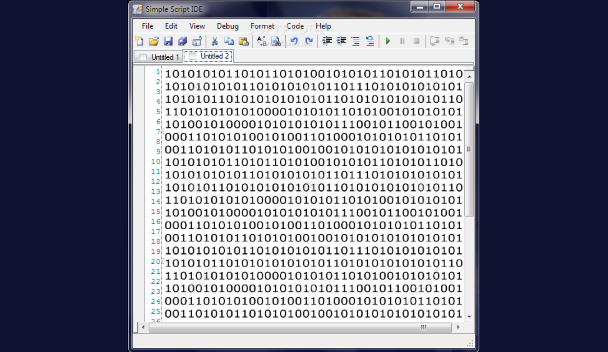
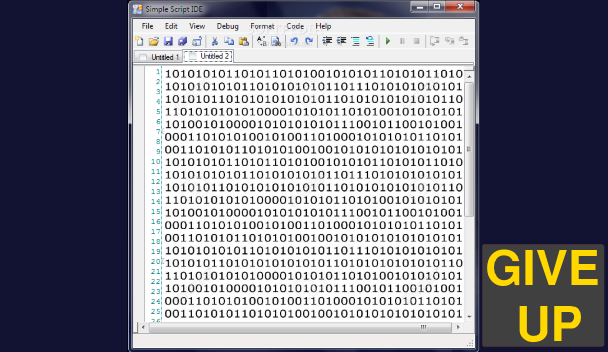
Updated graphics to add "buttons" and updated code to check for clicks within those buttons.

Changed region(s): [[0.7812, 0.6875, 1.0, 1.0]]

diff --git a/js/puzzle_fowler.js b/js/puzzle_fowler.js
@@ -130,20 +130,21 @@ var puzzle_fowler = function () {
         var oy = mousePos.y;
         switch (puzzleState) {
             case 1:
-                this.render();
+                //this.render();
                 puzzleState = 2;
                 break;
             case 2:
-                this.render();
+                //this.render();
                 puzzleState = 3;
                 break;
             case 3:
-                this.render();
+                //this.render();
                 //check where they clicked
-                if (mousePos.x > 300 && mousePos.x < 560 && mousePos.y > 30 && mousePos.y < 80) {
+
+                if (mousePos.x > 375 && mousePos.x < 600 && mousePos.y > 75 && mousePos.y < 165) {
                     // NOPE clicked: cancel puzzle (return to game)
                     puzzle_done(-1);
-                } else if (mousePos.x > 400 && mousePos.x < 530 && mousePos.y > 150 && mousePos.y < 215) {
+                } else if (mousePos.x > 167 && mousePos.x < 353 && mousePos.y > 27 && mousePos.y < 97) {
                     // OK clicked
                     //alden_ctx.drawImage(images.puzzle1,0,0);
                     puzzleState = 4;
@@ -157,6 +158,8 @@ var puzzle_fowler = function () {
                 //var pos = $("#canvas").position();
                 //var ox = e.pageX - pos.left;
                 //var oy = e.pageY - pos.top;
+
+                pzlmidctx.strokeRect(482, 245, 123, 102);
 
                 var magicx = Math.floor(puzzlemid.width / 6);
                 var magicy = Math.floor(puzzlemid.height / 6);
@@ -193,6 +196,9 @@ var puzzle_fowler = function () {
                         lightField[yField][xField + 1] =
                             lightField[yField][xField + 1] === "x" ? "o" : "x";
                     }
+                } else if (mousePos.x > 482 && mousePos.x < 605 && mousePos.y > 245 && mousePos.y < 347) {
+                    // NOPE clicked: cancel puzzle (return to game)
+                    puzzle_done(-1);
                 }
                 break;
             case 5:
@@ -214,6 +220,9 @@ var puzzle_fowler = function () {
                 break;
             case 3:
                 pzlmidctx.drawImage(intro3, 0, 0);
+                pzlmidctx.strokeRect(167, 27, 186, 70);
+                pzlmidctx.strokeRect(375, 75, 225, 90);
+
                 break;
             case 4:
                 renderPuzzle();
@@ -277,12 +286,14 @@ var puzzle_fowler = function () {
                     pzlmidctx.strokeStyle = "#000000";
 
                     // Actual draw of the border
-                    pzlmidctx.stroke();
+                    //pzlmidctx.stroke();
                     pzlmidctx.strokeRect((xoffset) + j * magicy + 0.5, (yoffset) + i * magicy + 0.5,
                         magicy, magicy);
 
                 }
             }
+
+            pzltopctx.strokeRect(482, 245, 123, 102);
 
             // debug code TODO
             //pzltopctx.fillStyle = "#000000";
@@ -292,6 +303,7 @@ var puzzle_fowler = function () {
             if (allLightsAreOff) {
                 //// User can't click anymore
                 //userCanClick = false;
+                clear();
                 puzzleState = 5;
                 // Show message
                 // alert("All lights are off, you finished the game!");
